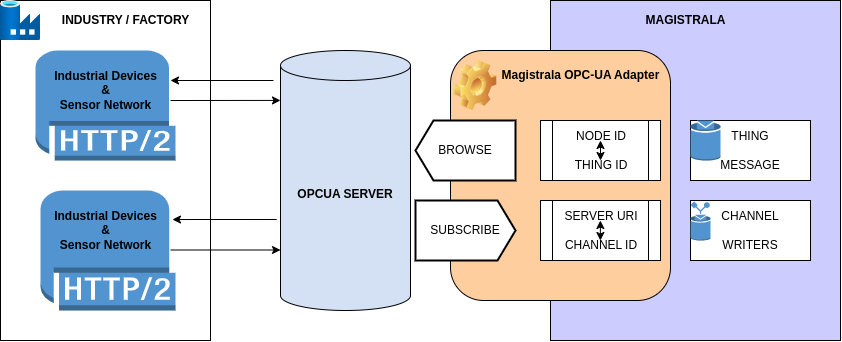
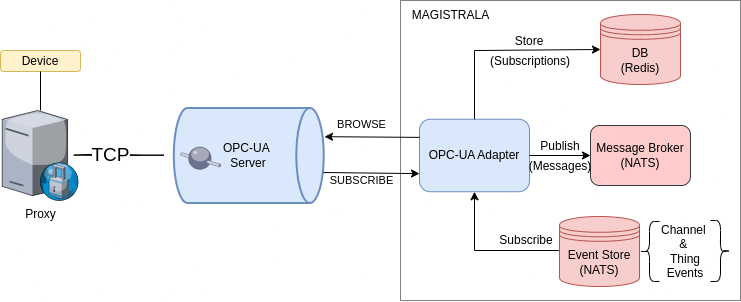
Update OPCUA architcture
Change event store from redis to NATS

Add NATS to OPCUA architecture diagram

Align flow chart blocks

Update docs and architecture to be more specific

Update doc

diff --git a/docs/opcua.md b/docs/opcua.md
@@ -63,7 +63,7 @@ To forward OPC-UA messages the opcua-adapter subscribes to the Node ID of an OPC
 
 ### Sample Use Case
 
-OPC-UA can be used in an industrial setup to monitor process values from the different industrial devices and machines within the industry setup. The industrial devices which are controlled by controllers such as PLCs (Programmable Logic Controllers) send data to the OPC-UA server over TCP/IP. From the OPC-UA server, data is sent to and from Magistrala cloud using the OPC-UA adapter in Magistrala. The devices, known as nodes, are associated with things on Magistrala and the Service URIs are associated with Channels on Magistrala. Data (Messages) received on the channels can be sent to the writers on Magistrala to make it available to the end user.
+OPC-UA can be used in an industrial setup to monitor process values from the different industrial devices and machines within the industry setup. The industrial devices which are controlled by controllers such as PLCs (Programmable Logic Controllers) send data to the OPC-UA server over TCP/IP. From the OPC-UA server, data is sent to and from Magistrala cloud using the OPC-UA adapter in Magistrala. The devices, known as nodes, are associated with things on Magistrala and the Service URIs are associated with Channels on Magistrala. Through the OPC-UA adapter, messages are published through NATS to the readers and writers while subscriptions are stored in the redis DB. Channel and thing events such as channel creation, thing creation, channel connection and removal are are sent to the NATS events store.
 
 |       ![OPC-UA][opcua-diagram]      |
 | :---------------------------------: |
